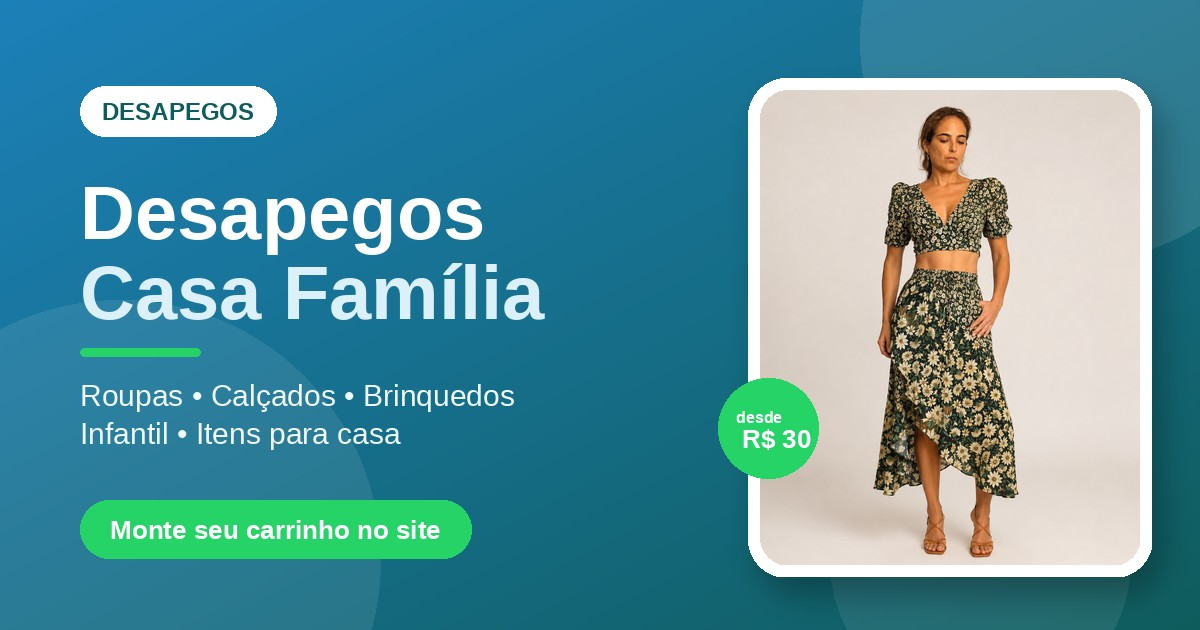
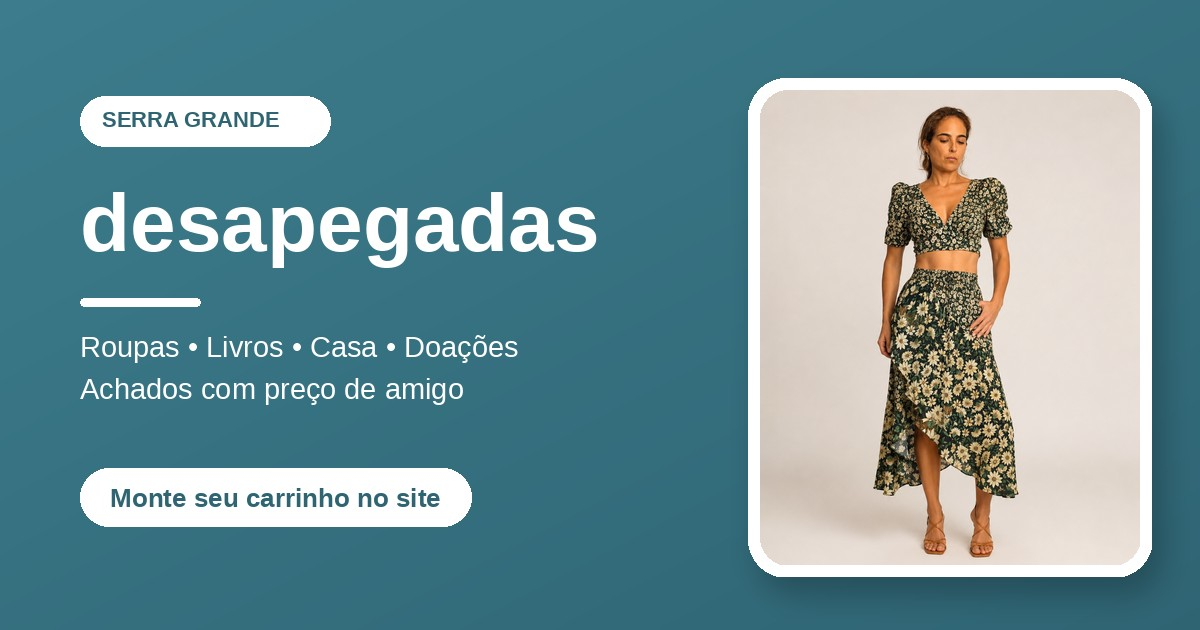
Add files via upload

diff --git a/index.html b/index.html
@@ -18,16 +18,16 @@
 <link rel="icon" href="Fotos/logo.png">
 <style>
   :root{
-    --bg:#f7f3ee;          /* creme */
+    --bg:#f1f6f5;          /* verde-água bem claro */
     --card:#ffffff;        /* branco */
-    --ink:#5b4a43;         /* marrom quente */
-    --muted:#9c8a80;
-    --line:#ece1d8;
-    --brand:#c17b69;       /* terracota rosé */
-    --brand-dark:#a85d4c;  /* terracota escuro */
+    --ink:#2f4a52;         /* teal escuro (texto) */
+    --muted:#6f8a90;
+    --line:#dbe8e6;
+    --brand:#3c7c8c;       /* teal/petróleo */
+    --brand-dark:#2f6473;  /* teal escuro */
     --wa:#25d366;          /* verde whatsapp */
     --wa-dark:#1da851;
-    --tag:#f2e4dc;         /* blush claro */
+    --tag:#e3eee9;         /* verde-sálvia claro */
   }
   *{box-sizing:border-box}
   body{
@@ -35,10 +35,12 @@
     background:var(--bg);color:var(--ink);line-height:1.5;
   }
   header{
-    background:#fdfdfd;padding:22px 20px 18px;text-align:center;
+    background:#fdfdfd;padding:14px 20px 12px;text-align:center;
     border-bottom:1px solid var(--line);
   }
-  header .logo{width:300px;max-width:80%;height:auto;display:block;margin:0 auto}
+  header .logo{width:280px;max-width:72%;height:auto;display:block;margin:0 auto}
+  header .tagline{margin:6px 0 0;color:var(--brand);font-size:.78rem;letter-spacing:2.5px;
+    text-transform:uppercase;font-weight:600}
   header h1{margin:0 0 6px;font-size:1.9rem;letter-spacing:.3px}
   header p{margin:0;opacity:.95;font-size:1rem}
   .wrap{max-width:1100px;margin:0 auto;padding:0 16px}
@@ -212,7 +214,7 @@
 
 <header>
   <!-- ✏️ EDITE: nome e descrição do seu brechó -->
-  <img class="logo" src="Fotos/logo.png" alt="desapegadas — marketplace de desapegos em Serra Grande">
+  <img class="logo" src="Fotos/logo-novo.png" alt="desapegadas — Deixando a pegada da sustentabilidade">
 </header>
 
 <div class="wrap">
@@ -295,8 +297,8 @@ const PRODUTOS = [
   { nome:"Maiô dupla face", marca:"Brilho do sol", preco:50, categoria:"Feminino", tamanho:"G", condicao:"Seminovo", fotos:["Fotos/10_1.png","Fotos/10_2.png","Fotos/10_3.png"] },
   { nome:"Maiô florido", marca:"Brilho do sol", preco:50, categoria:"Feminino", tamanho:"G", condicao:"Seminovo", fotos:["Fotos/11_1.png","Fotos/11_2.png"] },
   { nome:"Maiô verde musgo", marca:"Renner", preco:50, categoria:"Feminino", tamanho:"G", condicao:"Seminovo", obs:"Vem com quimono, de brinde", fotos:["Fotos/12_1.png","Fotos/12_2.png","Fotos/12_3.png"] },
-  { nome:"Maiô manga longa", marca:"Live!", preco:60, categoria:"Feminino", tamanho:"", condicao:"Seminovo", fotos:["Fotos/13_1.png","Fotos/13_2.png"] },
-  { nome:"Top paetês preto", marca:"L'etage", preco:50, categoria:"Feminino", tamanho:"P", condicao:"Seminovo", fotos:["Fotos/14_1.png","Fotos/14_2.png"] },
+  { nome:"Maiô manga longa", marca:"Live!", preco:60, categoria:"Feminino", tamanho:"G", condicao:"Seminovo", fotos:["Fotos/13_1.png","Fotos/13_2.png"] },
+  { nome:"Top paetês preto", marca:"L'etage", preco:50, categoria:"Feminino", tamanho:"P", condicao:"Seminovo", obs:"É bem pequeno! Pra quem tem pouco seio", fotos:["Fotos/14_1.png","Fotos/14_2.png"] },
   { nome:"Celular Redmi", marca:"Xiaomi", preco:650, categoria:"Eletrônicos", tamanho:"", condicao:"Seminovo", obs:"Sem marcas de uso / sem carregador", fotos:["Fotos/15_1.png","Fotos/15_2.png","Fotos/15_3.png"] },
   { nome:"Aparador", marca:"", preco:100, categoria:"Casa", tamanho:"", condicao:"Usado - com marcas de uso", obs:"Sem os puxadores", fotos:["Fotos/16_1.png"] },
   { nome:"Mochila", marca:"", preco:0, categoria:"Doação", tamanho:"", condicao:"Usado - com marcas de uso", obs:"O zíper está estragado, mas a mochila é muito boa", fotos:["Fotos/17_1.jpeg","Fotos/17_2.jpeg"] },

diff --git a/como-funciona.html b/como-funciona.html
@@ -3,11 +3,11 @@
 <head>
 <meta charset="UTF-8">
 <meta name="viewport" content="width=device-width, initial-scale=1.0">
-<title>Como funciona — Desapegos Casa Família</title>
+<title>Como funciona — desapegadas</title>
 <style>
   :root{
-    --bg:#f4f8fb; --card:#ffffff; --ink:#13343f; --muted:#5e7785; --line:#d9e7ee;
-    --brand:#1c80b8; --brand-dark:#0f5c5c; --tag:#e4f0f7;
+    --bg:#f1f6f5; --card:#ffffff; --ink:#2f4a52; --muted:#6f8a90; --line:#dbe8e6;
+    --brand:#3c7c8c; --brand-dark:#2f6473; --tag:#e3eee9;
   }
   *{box-sizing:border-box}
   body{margin:0;font-family:-apple-system,BlinkMacSystemFont,"Segoe UI",Roboto,Helvetica,Arial,sans-serif;
@@ -62,7 +62,7 @@
   <a class="cta" href="index.html">Ver os produtos</a>
 </div>
 
-<footer>Desapegos Casa Família • Serra Grande</footer>
+<footer>desapegadas • Serra Grande</footer>
 
 </body>
 </html>